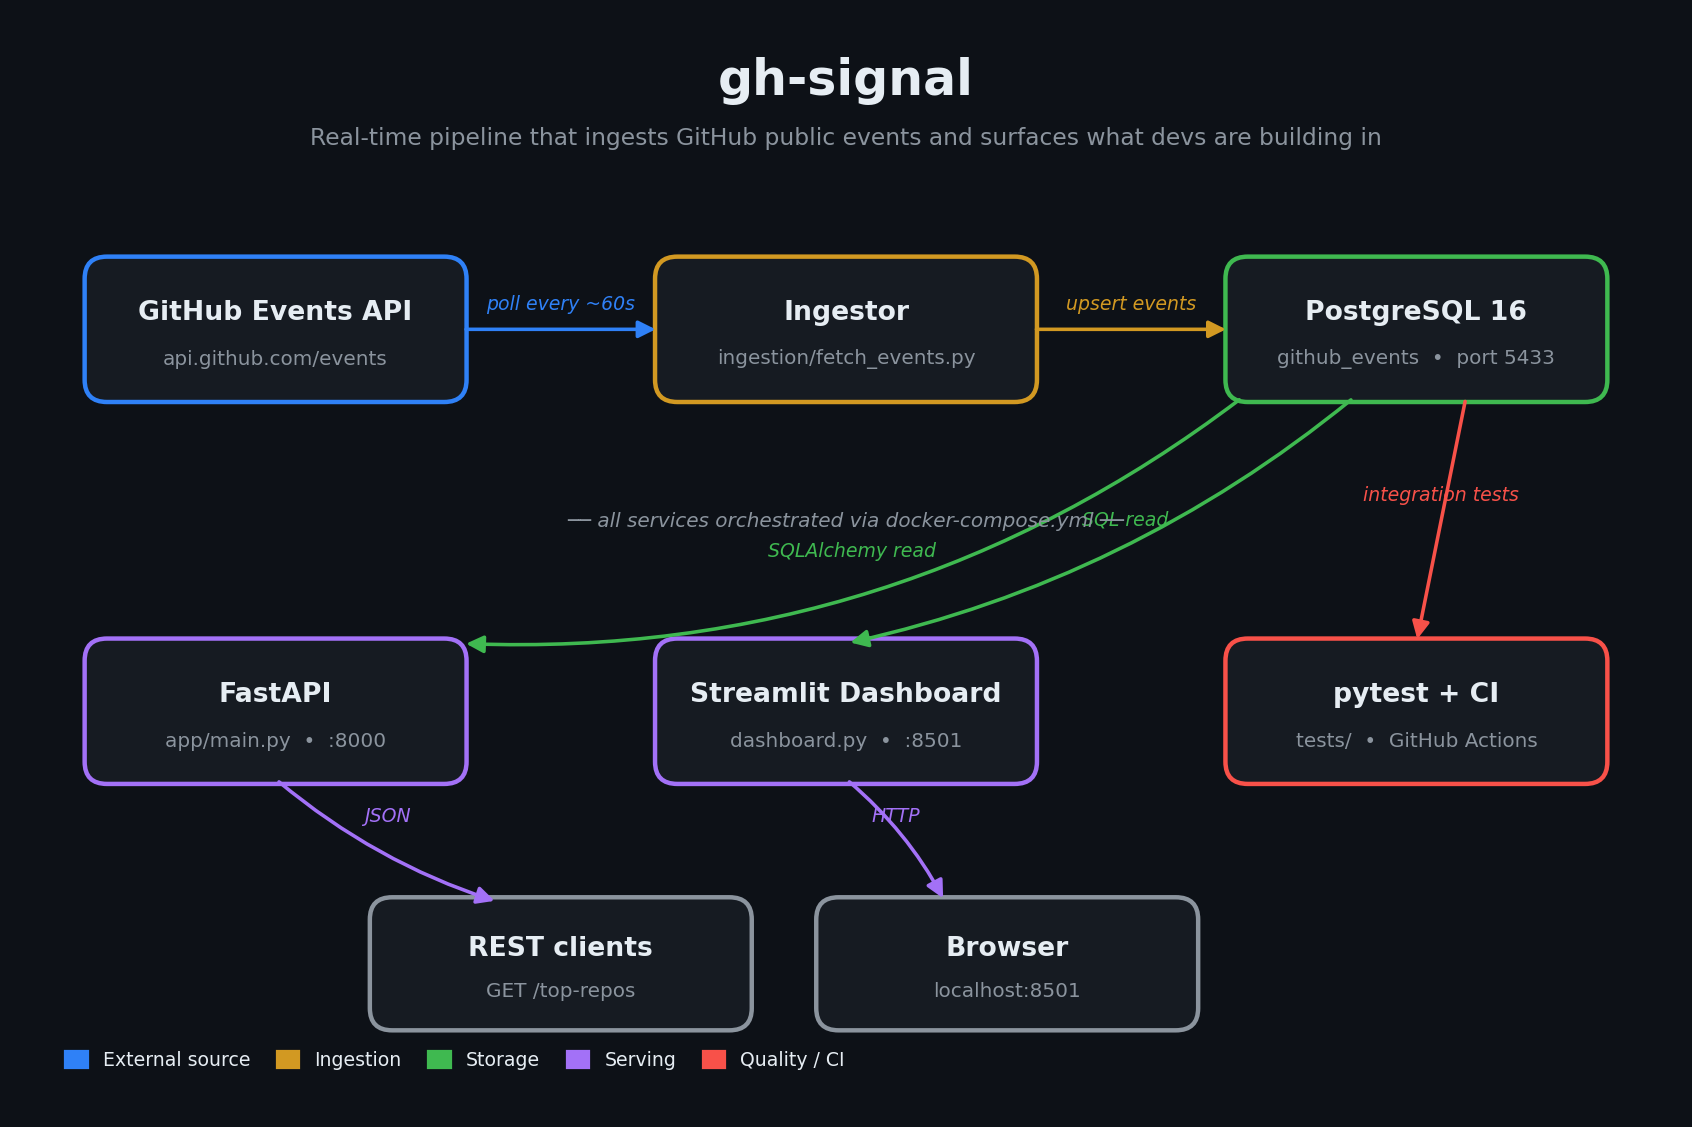
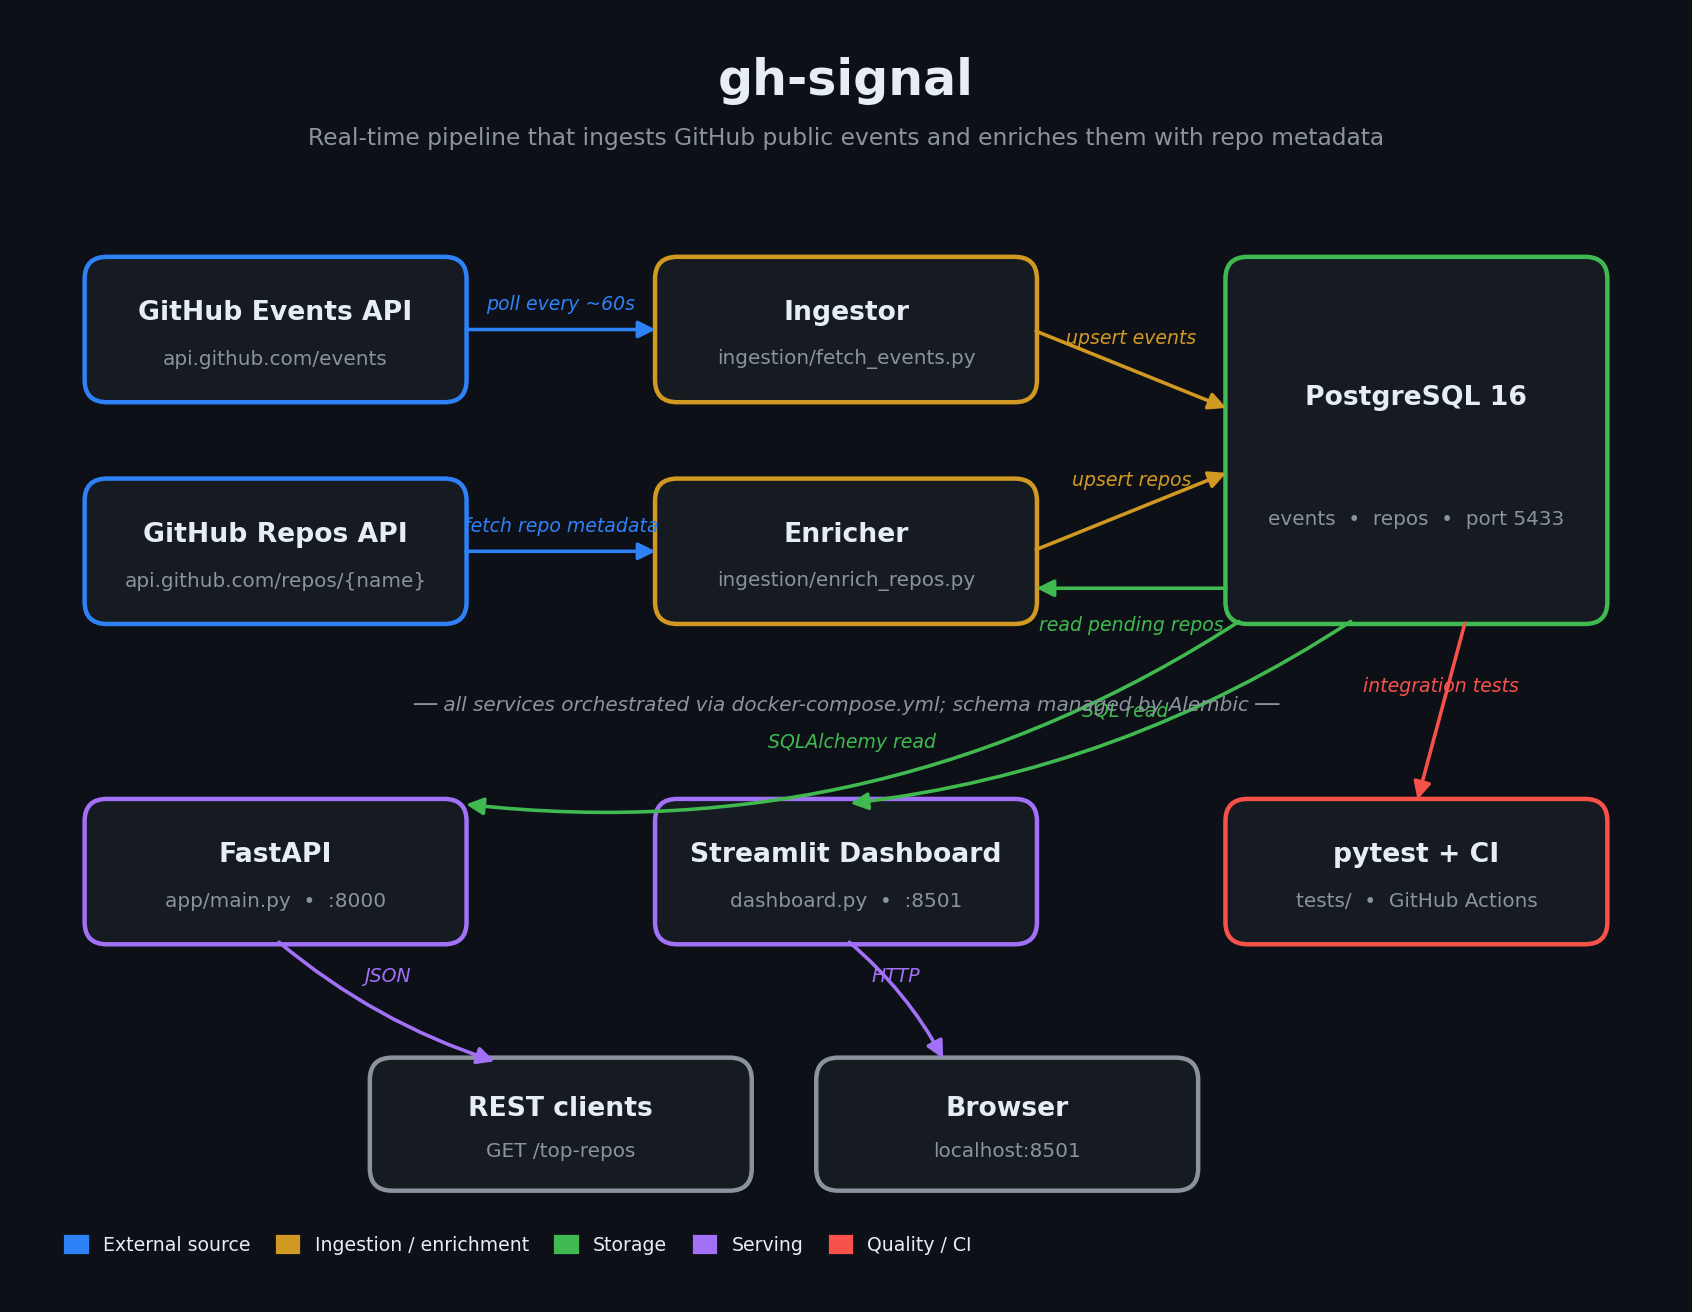
Clean up deprecations, dead code, and stale architecture diagram
- Drop ~30 lines of commented-out altair code from dashboard.py
- Replace SQLAlchemy 1.x declarative_base import with the 2.x location
- Replace deprecated datetime.utcnow() with datetime.now(timezone.utc)
- Type dict params in crud.py properly (dict[str, Any]) so the chain of
  pyright: ignore suppressions in crud.py and fetch_events.py drops out
- Move `from sqlalchemy import func` to module scope; remove low-signal
  comments (`// natural key`, `// avoids duplicates`, `# Dependency`)
- Re-render architecture diagram: add GitHub Repos API source, Enricher
  worker, and the read-pending/upsert-repos arrows; note Alembic in the
  compose caption

Changed region(s): [[0.0307, 0.1863, 0.9527, 0.9627], [0.1844, 0.0311, 0.8298, 0.1242]]

diff --git a/scripts/render_architecture.py b/scripts/render_architecture.py
@@ -17,11 +17,11 @@ ORANGE = "#d29922"
 PURPLE = "#a371f7"
 RED = "#f85149"
 
-fig, ax = plt.subplots(figsize=(13, 8.5), dpi=160)
+fig, ax = plt.subplots(figsize=(13, 10), dpi=160)
 fig.patch.set_facecolor(BG)
 ax.set_facecolor(BG)
 ax.set_xlim(0, 13)
-ax.set_ylim(0, 8.5)
+ax.set_ylim(0, 10)
 ax.set_axis_off()
 
 
@@ -53,59 +53,59 @@ def arrow(x1, y1, x2, y2, label="", color=MUTED, curve=0.0, label_offset=(0, 0.2
 
 
 # Title
-ax.text(6.5, 8.05, "gh-signal", ha="center", color=FG, fontsize=22, fontweight="bold")
-ax.text(6.5, 7.65,
-        "Real-time pipeline that ingests GitHub public events and surfaces what devs are building in",
+ax.text(6.5, 9.55, "gh-signal", ha="center", color=FG, fontsize=22, fontweight="bold")
+ax.text(6.5, 9.15,
+        "Real-time pipeline that ingests GitHub public events and enriches them with repo metadata",
         ha="center", color=MUTED, fontsize=10.5)
 
-# External source
-box(0.4, 5.6, 3.0, 1.1, "GitHub Events API", "api.github.com/events", ACCENT)
+# --- Sources column (left) ---
+box(0.4, 7.1, 3.0, 1.1, "GitHub Events API", "api.github.com/events", ACCENT)
+box(0.4, 5.3, 3.0, 1.1, "GitHub Repos API", "api.github.com/repos/{name}", ACCENT)
 
-# Ingestor
-box(5.0, 5.6, 3.0, 1.1, "Ingestor", "ingestion/fetch_events.py", ORANGE)
+# --- Workers column (middle) ---
+box(5.0, 7.1, 3.0, 1.1, "Ingestor", "ingestion/fetch_events.py", ORANGE)
+box(5.0, 5.3, 3.0, 1.1, "Enricher", "ingestion/enrich_repos.py", ORANGE)
 
-# Postgres
-box(9.6, 5.6, 3.0, 1.1, "PostgreSQL 16", "github_events  •  port 5433", GREEN)
+# --- Storage column (right) — single Postgres spans both ingest paths ---
+box(9.6, 5.3, 3.0, 2.9, "PostgreSQL 16", "events  •  repos  •  port 5433", GREEN)
 
-# FastAPI
-box(0.4, 2.5, 3.0, 1.1, "FastAPI", "app/main.py  •  :8000", PURPLE)
+# --- Serving row ---
+box(0.4, 2.7, 3.0, 1.1, "FastAPI", "app/main.py  •  :8000", PURPLE)
+box(5.0, 2.7, 3.0, 1.1, "Streamlit Dashboard", "dashboard.py  •  :8501", PURPLE)
+box(9.6, 2.7, 3.0, 1.1, "pytest + CI", "tests/  •  GitHub Actions", RED)
 
-# Dashboard
-box(5.0, 2.5, 3.0, 1.1, "Streamlit Dashboard", "dashboard.py  •  :8501", PURPLE)
+# --- Consumers row ---
+box(2.7, 0.7, 3.0, 1.0, "REST clients", "GET /top-repos", MUTED)
+box(6.3, 0.7, 3.0, 1.0, "Browser", "localhost:8501", MUTED)
 
-# Tests / CI
-box(9.6, 2.5, 3.0, 1.1, "pytest + CI", "tests/  •  GitHub Actions", RED)
+# --- Arrows: ingestion path (top) ---
+arrow(3.4, 7.65, 5.0, 7.65, "poll every ~60s", ACCENT)
+arrow(8.0, 7.65, 9.6, 7.0, "upsert events", ORANGE, curve=0.0, label_offset=(0, 0.25))
 
-# Consumers
-box(2.7, 0.5, 3.0, 1.0, "REST clients", "GET /top-repos", MUTED)
-box(6.3, 0.5, 3.0, 1.0, "Browser", "localhost:8501", MUTED)
+# --- Arrows: enrichment path (bottom of top half) ---
+arrow(3.4, 5.85, 5.0, 5.85, "fetch repo metadata", ACCENT)
+arrow(8.0, 5.85, 9.6, 6.5, "upsert repos", ORANGE, curve=0.0, label_offset=(0, 0.25))
+# Enricher reads pending repo names from the events table
+arrow(9.6, 5.55, 8.0, 5.55, "read pending repos", GREEN, label_offset=(0, -0.3))
 
-# Arrows: source -> ingestor -> db
-arrow(3.4, 6.15, 5.0, 6.15, "poll every ~60s", ACCENT)
-arrow(8.0, 6.15, 9.6, 6.15, "upsert events", ORANGE)
+# --- Arrows: storage -> serving ---
+arrow(9.7, 5.3, 3.4, 3.8, "SQLAlchemy read", GREEN, curve=-0.18, label_offset=(0, -0.25))
+arrow(10.6, 5.3, 6.5, 3.8, "SQL read", GREEN, curve=-0.12, label_offset=(0.2, 0.0))
+arrow(11.5, 5.3, 11.1, 3.8, "integration tests", RED)
 
-# DB -> FastAPI and DB -> Dashboard (read paths)
-arrow(9.7, 5.6, 3.4, 3.6, "SQLAlchemy read", GREEN, curve=-0.18, label_offset=(0, -0.25))
-arrow(10.6, 5.6, 6.5, 3.6, "SQL read", GREEN, curve=-0.12, label_offset=(0.2, 0.0))
-
-# DB -> tests (validates schema/queries)
-arrow(11.5, 5.6, 11.1, 3.6, "integration tests", RED, curve=0.0)
-
-# FastAPI -> REST clients
-arrow(1.9, 2.5, 3.7, 1.5, "JSON", PURPLE, curve=0.1)
-
-# Dashboard -> Browser
-arrow(6.5, 2.5, 7.3, 1.5, "HTTP", PURPLE, curve=-0.1)
+# --- Arrows: serving -> consumers ---
+arrow(1.9, 2.7, 3.7, 1.7, "JSON", PURPLE, curve=0.1)
+arrow(6.5, 2.7, 7.3, 1.7, "HTTP", PURPLE, curve=-0.1)
 
 # Compose grouping note
 ax.text(6.5, 4.55,
-        "── all services orchestrated via docker-compose.yml ──",
+        "── all services orchestrated via docker-compose.yml; schema managed by Alembic ──",
         ha="center", color=MUTED, fontsize=9, style="italic")
 
 # Legend
 legend_handles = [
     mpatches.Patch(color=ACCENT, label="External source"),
-    mpatches.Patch(color=ORANGE, label="Ingestion"),
+    mpatches.Patch(color=ORANGE, label="Ingestion / enrichment"),
     mpatches.Patch(color=GREEN,  label="Storage"),
     mpatches.Patch(color=PURPLE, label="Serving"),
     mpatches.Patch(color=RED,    label="Quality / CI"),

diff --git a/app/crud.py b/app/crud.py
@@ -1,21 +1,25 @@
-from datetime import datetime
-from sqlalchemy import select
+from datetime import datetime, timezone
+from typing import Any
+
+from sqlalchemy import func, select
 from sqlalchemy.orm import Session
+
 from .models import Event, Repo
 
-def create_event(db: Session, event_data: dict): # pyright: ignore[reportMissingTypeArgument, reportUnknownParameterType]
+
+def create_event(db: Session, event_data: dict[str, Any]) -> None:
     event = Event(
-        id=event_data["id"],  # "natural key" design // The upstream ID is already unique, stable, and opaque — it meets every requirement for a primary key.
+        id=event_data["id"],
         type=event_data["type"],
         actor=event_data["actor"]["login"],
         repo=event_data["repo"]["name"],
-        created_at=event_data["created_at"]
+        created_at=event_data["created_at"],
     )
-    db.merge(event)  # avoids duplicates (important) // GitHub is the source of truth for event identity, and the app trusts it.
+    db.merge(event)
     db.commit()
 
+
 def get_top_repos(db: Session, limit: int = 10):
-    from sqlalchemy import func
     return (
         db.query(Event.repo, func.count(Event.id).label("count"))
         .group_by(Event.repo)
@@ -24,7 +28,8 @@ def get_top_repos(db: Session, limit: int = 10):
         .all()
     )
 
-def repos_needing_enrichment(db: Session, limit: int = 20):
+
+def repos_needing_enrichment(db: Session, limit: int = 20) -> list[str]:
     enriched = select(Repo.name)
     return [
         r[0] for r in
@@ -35,12 +40,13 @@ def repos_needing_enrichment(db: Session, limit: int = 20):
           .all()
     ]
 
-def upsert_repo(db: Session, name: str, data: dict): # pyright: ignore[reportMissingTypeArgument, reportUnknownParameterType]
+
+def upsert_repo(db: Session, name: str, data: dict[str, Any]) -> None:
     repo = Repo(
         name=name,
-        language=data.get("language"), # pyright: ignore[reportUnknownMemberType]
-        topics=data.get("topics", []), # pyright: ignore[reportUnknownMemberType]
-        fetched_at=datetime.utcnow(), # pyright: ignore[reportDeprecated]
+        language=data.get("language"),
+        topics=data.get("topics", []),
+        fetched_at=datetime.now(timezone.utc),
     )
     db.merge(repo)
     db.commit()

diff --git a/dashboard.py b/dashboard.py
@@ -1,4 +1,3 @@
-# import altair as alt
 import pandas as pd
 import streamlit as st
 from sqlalchemy import text
@@ -33,12 +32,6 @@ if df.empty:
     )
     st.stop()
 
-# st.subheader("Events per minute (UTC)")
-# per_minute = (
-#     df.set_index("created_at").resample("1min").size().rename("events")
-# )
-# st.line_chart(per_minute)
-
 st.subheader("Event types")
 st.bar_chart(df["type"].value_counts())
 
@@ -49,27 +42,3 @@ with col_repos:
 with col_actors:
     st.subheader("Top 10 actors")
     st.bar_chart(df["actor"].value_counts().head(10))
-
-# st.subheader("Activity heatmap (UTC)")
-# heat = (
-#     df.assign(
-#         day=df["created_at"].dt.date.astype(str),
-#         hour=df["created_at"].dt.hour,
-#     )
-#     .groupby(["day", "hour"])
-#     .size()
-#     .reset_index(name="events")
-# )
-# if heat["day"].nunique() < 2:
-#     st.caption("Heatmap is most useful with at least a couple of days of data — keep ingesting.")
-# heatmap = (
-#     alt.Chart(heat)
-#     .mark_rect()
-#     .encode(
-#         x=alt.X("hour:O", title="Hour of day (UTC)"),
-#         y=alt.Y("day:O", title="Date"),
-#         color=alt.Color("events:Q", scale=alt.Scale(scheme="blues")),
-#         tooltip=["day", "hour", "events"],
-#     )
-# )
-# st.altair_chart(heatmap, width="stretch")

diff --git a/ingestion/fetch_events.py b/ingestion/fetch_events.py
@@ -1,7 +1,7 @@
 import requests
 import time
 from app.db import SessionLocal
-from app.crud import create_event # pyright: ignore[reportUnknownVariableType]
+from app.crud import create_event
 
 GITHUB_EVENTS_URL = "https://api.github.com/events"
 

diff --git a/app/models.py b/app/models.py
@@ -1,5 +1,5 @@
 from sqlalchemy import Column, String, DateTime, JSON
-from sqlalchemy.ext.declarative import declarative_base
+from sqlalchemy.orm import declarative_base
 
 Base = declarative_base()
 

diff --git a/app/main.py b/app/main.py
@@ -5,7 +5,7 @@ from .crud import get_top_repos
 
 app = FastAPI()
 
-# Dependency
+
 def get_db():
     db = SessionLocal()
     try:
